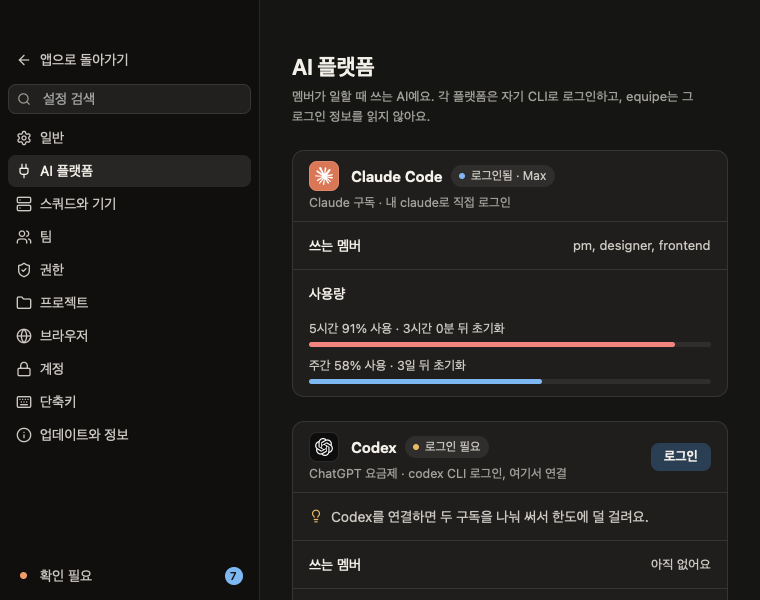
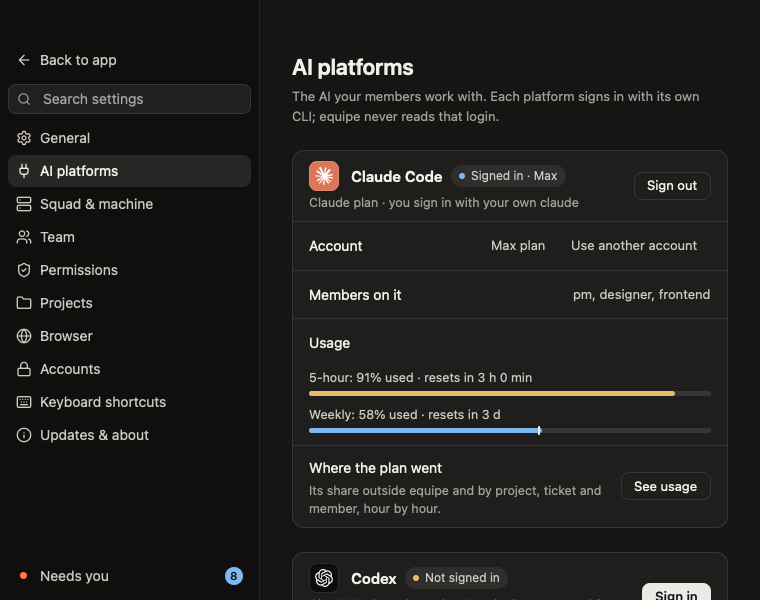
Claude Code card: sign out and use another account, like Codex

diff --git a/crates/desktop/src/views/engines.rs b/crates/desktop/src/views/engines.rs
@@ -121,7 +121,7 @@ fn card(shell: &Shell, at: usize, platform: &'static Platform, now: Instant, cx:
                 .on_click(cx.listener(move |this, _, _, cx| this.engine_install(engine, cx)))
                 .into_any_element(),
         ),
-        (Card::Idle, Some(EngineState::SignedIn), SignsIn::FromApp) => Some(
+        (Card::Idle, Some(EngineState::SignedIn), _) => Some(
             button(shell, at, 0, "engine-sign-out", Kind::Secondary, t!("engines.sign_out"))
                 .disabled(!connected)
                 .on_click(cx.listener(move |this, _, _, cx| {
@@ -147,19 +147,26 @@ fn card(shell: &Shell, at: usize, platform: &'static Platform, now: Instant, cx:
     let mut lines = vec![Line::new(platform.name, (platform.who)()).label_el(head).words(words.clone()).control_opt(action)];
 
     // Signed in from here: who as and on what plan, and the way to another account.
-    if card == Card::Idle && signed_in && platform.signs_in == SignsIn::FromApp {
+    if card == Card::Idle && signed_in {
         let who = status.and_then(|s| s.account.clone());
         let plan = status.and_then(|s| s.plan.clone()).map(|plan| engines::title_case(&plan));
+        let per_token = status.is_some_and(|s| s.per_token);
         let said = match (who, plan) {
             (Some(who), Some(plan)) => t!("engines.account_on", account = who, plan = plan),
             (Some(who), None) => who,
             (None, Some(plan)) => t!("engines.account_plan_only", plan = plan),
+            (None, None) if per_token => t!("engines.per_token").to_owned(),
             (None, None) => t!("engines.account_unknown").to_owned(),
         };
+        let tip = if platform.signs_in == SignsIn::FromApp { t!("engines.switch_account_tip") } else { t!("engines.switch_account_tip_claude") };
         let switch = button(shell, at, 1, "engine-switch-account", Kind::Ghost, t!("engines.switch_account"))
-            .tip(t!("engines.switch_account_tip"), None)
+            .tip(tip, None)
             .disabled(!connected)
-            .on_click(cx.listener(move |this, _, _, cx| this.engine_sign_in(engine, cx)));
+            .on_click(cx.listener(move |this, _, window, cx| match engines::platform(engine).signs_in {
+                SignsIn::FromApp => this.engine_sign_in(engine, cx),
+                // Claude Code's own sign-in: its page, and the code pasted back.
+                SignsIn::InTerminal { .. } => this.signin_start(engine, window, cx),
+            }));
         lines.push(
             Line::new(t!("engines.row_account"), "")
                 .words(format!("{words} account plan email switch"))
@@ -461,9 +468,11 @@ fn progress(shell: &Shell, at: usize, platform: &'static Platform, card: &Card, 
         Card::Elsewhere => Line::new(t!("engines.elsewhere"), "").label_el(waiting(t!("engines.elsewhere").to_owned())).control(cancel(cx)),
         // Claude Code's page, from a conversation's card: its code is pasted there.
         Card::Paste { url } => {
-            let open = url.clone();
-            let controls = h_flex().gap_2().items_center().child(button(shell, at, 3, "engine-open-page", Kind::Ghost, t!("engines.open_page")).icon(Icon::External).on_click(move |_, _, cx| cx.open_url(&open)));
-            Line::new(t!("signin.paste_settings"), "").label_el(waiting(t!("signin.paste_settings").to_owned())).control(controls.child(cancel(cx)))
+            let line = Line::new(t!("signin.paste_settings"), "").label_el(waiting(t!("signin.paste_settings").to_owned())).control(cancel(cx));
+            match shell.signin_code.clone() {
+                Some(code) => line.below(paste_box(shell, at, engine, &code, url, cx)),
+                None => line,
+            }
         }
         Card::Browser { url } => {
             let mut controls = h_flex().gap_2().items_center();
@@ -523,11 +532,45 @@ fn progress(shell: &Shell, at: usize, platform: &'static Platform, card: &Card, 
                 cx.notify();
             }));
             let out = button(shell, at, 2, "engine-sign-out-sure", Kind::Danger, t!("engines.sign_out")).on_click(cx.listener(move |this, _, _, cx| this.engine_sign_out(engine, cx)));
-            Line::new(t!("engines.confirm_sign_out", name = platform.name), t!("engines.confirm_sign_out_desc", host = host(shell), tool = platform.tool, name = platform.name)).warn(true).control(h_flex().gap_2().items_center().child(keep).child(out))
+            let mut desc = t!("engines.confirm_sign_out_desc", host = host(shell), tool = platform.tool, name = platform.name);
+            // Who is working on it now, so the person knows whose work this stops.
+            if let Some(members) = shell.engines.status(engine).and_then(|s| engines::members_line(s, &shell.model.squad)) {
+                desc = format!("{desc} {}", t!("engines.confirm_sign_out_members", members = members));
+            }
+            Line::new(t!("engines.confirm_sign_out", name = platform.name), desc).warn(true).control(h_flex().gap_2().items_center().child(keep).child(out))
         }
         Card::SigningOut => Line::new(t!("engines.signing_out"), "").label_el(waiting(t!("engines.signing_out").to_owned())),
     };
     Some(line)
+}
+
+/// Claude Code's page: open it, and the box its code is pasted into with Send.
+fn paste_box(shell: &Shell, at: usize, engine: Engine, code: &Entity<gpui_kit::component::input::InputState>, url: &str, cx: &mut Context<Shell>) -> AnyElement {
+    let p = shell.palette;
+    let open = url.to_owned();
+    h_flex()
+        .w_full()
+        .gap_2()
+        .items_center()
+        .child(
+            div()
+                .flex_1()
+                .min_w_0()
+                .h(px(CONTROL + 4.))
+                .px_3()
+                .flex()
+                .items_center()
+                .rounded(px(R_MD))
+                .border_1()
+                .border_color(p.hair)
+                .bg(p.code_bg)
+                .font_family(MONO)
+                .text_size(px(13.))
+                .child(Input::new(code).appearance(false).bordered(false)),
+        )
+        .child(button(shell, at, 3, "engine-open-page", Kind::Ghost, t!("engines.open_page")).icon(Icon::External).on_click(move |_, _, cx| cx.open_url(&open)))
+        .child(button(shell, at, 2, "engine-paste-send", Kind::Primary, t!("signin.paste_send")).on_click(cx.listener(move |this, _, window, cx| this.signin_paste(engine, window, cx))))
+        .into_any_element()
 }
 
 /// Usage: the plan's windows where they are known; room for the rest.

diff --git a/crates/desktop/src/snapshot.rs b/crates/desktop/src/snapshot.rs
@@ -9,7 +9,7 @@
 //! `menu:<inbox|working|all|view0…>` (a sidebar item) · `cmenu:<attach|recent|to|model|effort|mode|context>` (a composer menu) · `bkey:<key>` (a work
 //! screen's key; `shift-a`, `cmd-a`, `alt-v` with modifiers) · `pick:<n>` (a
 //! ticket; `ppick:<n>`, peeking) · `find:<words>` · `note:<text>` (in the open words box) · `submit`
-//! (its main button) · `size:<w>x<h>` (the window) · `hover:<x>,<y>` / `click:<x>,<y>` (the pointer, in the screen's points — through the zoom, as the Mac sends it) · `zoom:<pct|in|out|actual>` (the window's size, as ⌘+ ⌘- ⌘0) · `theme:<light|dark>` · `sidebar` (hide/show) · `popup:account` · `popup:subagents:<member>` · `subagent:<member>[,<n>]` (its first — or nth, from 0 — subagent's row, clicked) · `settings[:<category>]` (settings, at general · engines · squad · team · permissions · projects · browser · keys · about) · `words:<on|off|ask>` ("All by words" for the squad, or asked about) · `wlog` (the log of where words went wrong) · `wundo` (Undo, Cancel or Leave on what waits in words) · `eng:<signin|cancel|signout|sure|keep|tab>:<codex|claude>` (an AI platform's card) · `signin:<go|move|check|cancel|carry|far|paste:<code>|type:<code>>` (a lost sign-in's card in the conversation) · `ssearch:<words>` (its search) · `spop:<language|squad|subagents|provider>` (a pop-up) · `padd:<preset>` · `purl:<url>` · `pconnect` (a model provider's form: opened, its address, Connect) · `open:<n>` (a ticket's sidebar row) · `folds` · `elsewhere[:<n>]` (open or close the nth fold of other projects' talk) · `chooser` (the machine chooser) · `connect:<host>` · `pass:<text>` (answer ssh's
+//! (its main button) · `size:<w>x<h>` (the window) · `hover:<x>,<y>` / `click:<x>,<y>` (the pointer, in the screen's points — through the zoom, as the Mac sends it) · `zoom:<pct|in|out|actual>` (the window's size, as ⌘+ ⌘- ⌘0) · `theme:<light|dark>` · `sidebar` (hide/show) · `popup:account` · `popup:subagents:<member>` · `subagent:<member>[,<n>]` (its first — or nth, from 0 — subagent's row, clicked) · `settings[:<category>]` (settings, at general · engines · squad · team · permissions · projects · browser · keys · about) · `words:<on|off|ask>` ("All by words" for the squad, or asked about) · `wlog` (the log of where words went wrong) · `wundo` (Undo, Cancel or Leave on what waits in words) · `eng:<signin|switch|cancel|signout|sure|keep|tab>:<codex|claude>` (an AI platform's card) · `signin:<go|move|check|cancel|carry|far|paste:<code>|type:<code>>` (a lost sign-in's card in the conversation) · `ssearch:<words>` (its search) · `spop:<language|squad|subagents|provider>` (a pop-up) · `padd:<preset>` · `purl:<url>` · `pconnect` (a model provider's form: opened, its address, Connect) · `open:<n>` (a ticket's sidebar row) · `folds` · `elsewhere[:<n>]` (open or close the nth fold of other projects' talk) · `chooser` (the machine chooser) · `connect:<host>` · `pass:<text>` (answer ssh's
 //! password box) · `trust` / `decline` (answer ssh's yes/no) · `retry` · `setup:<nogit|gitasked|missing|confirm|installing|signedout|waiting|ready|failed|squad|creating|error>` (the first run's steps) · `attach:<file>[,<file>…]` · `ckey:<key>` (a key in the composer) · `light:<n>` (show attachment n big) · `drag:<path>[,…]` / `undrag` (the drop frame, as if dragged) ·
 //! `sdrag:<x1>,<y1>,<x2>,<y2>` (a selection dragged out) · `peekw:<px>` (the peek held that wide) · `quote:<open|reply|copy|type:<words>|write:<words>|add|cancel|edit:<n>|remove:<n>|peek:<n>|card:<quote>|<words>|send|close|jump>` (asking about — replying to — the words selected; a card's "Reply", ✕, the pointer on it; a card made at once) ·
 //! `sidechat:<start|on:<words>|type:<words>|send|close|bring|jump|reopen>` (a side chat: about the words selected, or about `words` of the conversation as if selected; typed in, sent, closed, its last answer brought to the composer, its passage clicked, opened again from its mark) ·
@@ -1043,13 +1043,15 @@ pub fn run(mut handle: AnyWindowHandle, mut shell: Entity<Shell>, cx: &mut App) 
                     }
                     cx.notify();
                 }),
-                // An AI platform's card in settings: `eng:<signin|cancel|signout|sure|keep|tab>:<codex|claude>`
+                // An AI platform's card in settings: `eng:<signin|switch|cancel|signout|sure|keep|tab>:<codex|claude>`
                 // (Sign in, Cancel, Sign out and its Sign out or Keep; `tab` moves the keys' focus to its first button).
                 "eng" => shell.update(cx, |shell, cx| {
                     let (act, which) = arg.split_once(':').unwrap_or((arg.as_str(), "codex"));
                     let engine = if which == "claude" { equipe_core::protocol::Engine::Claude } else { equipe_core::protocol::Engine::Codex };
                     match act {
                         "signin" => shell.engine_sign_in(engine, cx),
+                        // "Use another account": Claude Code's own sign-in, its page and a box for the code.
+                        "switch" => shell.signin_start(engine, window, cx),
                         "cancel" => shell.engine_cancel(engine, cx),
                         "signout" => shell.engines.ask_sign_out(engine),
                         "sure" => shell.engine_sign_out(engine, cx),

diff --git a/crates/desktop/examples/fake_daemon/engines.rs b/crates/desktop/examples/fake_daemon/engines.rs
@@ -25,6 +25,12 @@ fn mode() -> String {
 }
 
 /// Codex's state, as signing in and out moves it.
+/// Claude Code signed out from its card, until it signs in again.
+fn claude_out() -> &'static std::sync::atomic::AtomicBool {
+    static OUT: std::sync::atomic::AtomicBool = std::sync::atomic::AtomicBool::new(false);
+    &OUT
+}
+
 fn codex() -> &'static std::sync::Mutex<EngineState> {
     static CODEX: std::sync::OnceLock<std::sync::Mutex<EngineState>> = std::sync::OnceLock::new();
     CODEX.get_or_init(|| {
@@ -92,6 +98,9 @@ fn statuses() -> Vec<EngineStatus> {
             claude.members = vec![member("pm"), member("designer"), member("frontend")];
         }
     }
+    if claude_out().load(std::sync::atomic::Ordering::Relaxed) {
+        claude = EngineStatus::new(Engine::Claude, EngineState::SignedOut);
+    }
     let mut codex = EngineStatus::new(Engine::Codex, *self::codex().lock().unwrap());
     if codex.state == EngineState::SignedIn {
         codex.plan = Some("plus".into());
@@ -113,7 +122,37 @@ pub fn on_command(command: &Command, events: &broadcast::Sender<Event>) -> bool 
                 let _ = events.send(Event::Engines { engines: statuses() });
             });
         }
-        Command::SignIn { engine: Engine::Claude, .. } => tell(Engine::Claude, SignInStep::Failed { why: SignInFailure::Unsupported, detail: String::new() }),
+        // Claude Code's own: its page, then the code pasted back (`failed`: refused).
+        Command::SignIn { engine: Engine::Claude, .. } => {
+            let events = events.clone();
+            tokio::spawn(async move {
+                let tell = |step| drop(events.send(Event::SignIn { engine: Engine::Claude, step }));
+                tell(SignInStep::Browser { url: None });
+                tokio::time::sleep(Duration::from_millis(400)).await;
+                tell(SignInStep::Paste { url: "https://claude.com/cai/oauth/authorize?code=true&client_id=fake".into() });
+            });
+        }
+        Command::SignInCode { engine: Engine::Claude, .. } => {
+            let events = events.clone();
+            tokio::spawn(async move {
+                tokio::time::sleep(Duration::from_millis(500)).await;
+                if mode() == "failed" {
+                    let _ = events.send(Event::SignIn { engine: Engine::Claude, step: SignInStep::Failed { why: SignInFailure::Failed, detail: "Login failed: Request failed with status code 400".into() } });
+                    return;
+                }
+                claude_out().store(false, std::sync::atomic::Ordering::Relaxed);
+                let _ = events.send(Event::SignIn { engine: Engine::Claude, step: SignInStep::Done });
+                let _ = events.send(Event::Engines { engines: statuses() });
+            });
+        }
+        Command::SignOut { engine: Engine::Claude } => {
+            let events = events.clone();
+            tokio::spawn(async move {
+                tokio::time::sleep(Duration::from_millis(600)).await;
+                claude_out().store(true, std::sync::atomic::Ordering::Relaxed);
+                let _ = events.send(Event::Engines { engines: statuses() });
+            });
+        }
         Command::SignIn { engine, device } => {
             let (engine, device) = (*engine, *device || std::env::var("FAKE_ENGINES_CODE").is_ok_and(|v| v == "1"));
             let said = events.clone();

diff --git a/crates/desktop/src/engines.rs b/crates/desktop/src/engines.rs
@@ -329,7 +329,10 @@ impl Engines {
 
     /// "Sign out" asks first; "Keep" puts it back.
     pub fn ask_sign_out(&mut self, engine: Engine) {
-        self.set(engine, Card::ConfirmSignOut);
+        // Not over a sign-in on its way, a failure still to read, or a sign-out under way.
+        if self.card(engine) == &Card::Idle {
+            self.set(engine, Card::ConfirmSignOut);
+        }
     }
 
     pub fn keep(&mut self, engine: Engine) {
@@ -701,6 +704,50 @@ mod tests {
         e.on_event(&Event::Engines { engines: vec![status(Engine::Codex, EngineState::SignedOut)] });
         assert_eq!(e.card(Engine::Codex), &Card::Idle);
         assert!(e.sign_in(Engine::Claude, false, Instant::now()).is_empty(), "Claude Code signs in in a terminal");
+    }
+
+    #[test]
+    fn claude_code_signs_out_and_back_in_on_its_card() {
+        let mut e = Engines::default();
+        let now = Instant::now();
+        let claude = Engine::Claude;
+        // Asked once; a second press while asking, or over a sign-in, changes nothing.
+        e.ask_sign_out(claude);
+        e.ask_sign_out(claude);
+        assert_eq!(e.card(claude), &Card::ConfirmSignOut);
+        assert_eq!(e.sign_out(claude), vec![Command::SignOut { engine: claude }]);
+        assert!(e.sign_out(claude).is_empty(), "a double click sends nothing twice");
+        e.ask_sign_out(claude);
+        assert_eq!(e.card(claude), &Card::SigningOut, "not asked again while signing out");
+        e.on_event(&Event::Engines { engines: vec![status(claude, EngineState::SignedOut)] });
+        assert_eq!(e.card(claude), &Card::Idle);
+        // Back in at the same place: its page, the code pasted, then done.
+        assert_eq!(e.sign_in_again(claude, false, now), vec![Command::SignIn { engine: claude, device: false }]);
+        e.ask_sign_out(claude);
+        assert!(matches!(e.card(claude), Card::Starting { .. }), "no sign-out over a sign-in on its way");
+        assert!(e.sign_in_again(claude, false, now).is_empty(), "a second click starts nothing");
+        // Cancel puts the card back and tells the daemon.
+        assert_eq!(e.cancel(claude), vec![Command::SignInCancel { engine: claude }]);
+        assert_eq!(e.card(claude), &Card::Idle);
+        // A sign-in that fails is read, then dismissed.
+        e.sign_in_again(claude, true, now);
+        e.on_event(&Event::SignIn { engine: claude, step: SignInStep::Failed { why: SignInFailure::Unsupported, detail: String::new() } });
+        assert!(matches!(e.card(claude), Card::Failed { .. }));
+        e.ask_sign_out(claude);
+        assert!(matches!(e.card(claude), Card::Failed { .. }), "the failure stays until read");
+        e.keep(claude);
+        assert_eq!(e.card(claude), &Card::Idle);
+        // Another Mac's daemon losing the window is a failure to read, not a sign-out.
+        e.ask_sign_out(claude);
+        e.disconnected();
+        assert!(!matches!(e.card(claude), Card::SigningOut));
+    }
+
+    #[test]
+    fn the_sign_out_question_names_who_is_working() {
+        let mut working = status(Engine::Claude, EngineState::SignedIn);
+        working.members = vec![MemberRef { squad: "acme".into(), member: "backend".into() }, MemberRef { squad: "other".into(), member: "pm".into() }];
+        assert_eq!(members_line(&working, "acme").as_deref(), Some("backend, other/pm"));
     }
 
     #[test]

diff --git a/design/flows/shoot-desktop.py b/design/flows/shoot-desktop.py
@@ -108,6 +108,14 @@ state("settings/general/default", "settings:general")
 state("settings/general/long", "settings:general", lang="de")
 state("settings/engines/default", "settings:engines", {"FAKE_USAGE": "healthy"})
 state("settings/engines/error", "settings:engines", {"FAKE_USAGE": "both_low"})
+# Claude Code's card: signed in (above), the sign-out question, signed out, another account's sign-in
+# under way, refused, done; German (the longest) stands in for large text — the app has no text-size setting.
+state("settings/engines/confirm", "settings:engines;eng:signout:claude", {"FAKE_USAGE": "healthy"}, label="Claude Code: sign-out asked first, naming who is working")
+state("settings/engines/signedout", "settings:engines;eng:signout:claude;eng:sure:claude;wait:1500", {"FAKE_USAGE": "healthy"}, label="Claude Code signed out")
+state("settings/engines/waiting", "settings:engines;eng:switch:claude;wait:900", {"FAKE_USAGE": "healthy"}, label="Claude Code: another account's sign-in under way")
+state("settings/engines/failed", "settings:engines;eng:switch:claude;wait:900;signin:paste:bad-code;wait:1200", {"FAKE_USAGE": "healthy", "FAKE_ENGINES": "failed"}, label="Claude Code: another account's sign-in refused", kind="error")
+state("settings/engines/success", "settings:engines;eng:signout:claude;eng:sure:claude;wait:1500;eng:switch:claude;wait:900;signin:paste:abc#def;wait:1500", {"FAKE_USAGE": "healthy"}, label="Claude Code signed in again", kind="success")
+state("settings/engines/long", "settings:engines;eng:signout:claude", {"FAKE_USAGE": "healthy"}, lang="de")
 state("settings/squad/default", "settings:squad")
 state("settings/team/default", "settings:team")
 state("settings/team/empty", "settings:team", {"FAKE_SIGNALS": "0"})

diff --git a/crates/core/src/runtime.rs b/crates/core/src/runtime.rs
@@ -2381,17 +2381,19 @@ impl Runtime {
         self.codex_models = None;
     }
 
-    /// Sign `engine` out with its own tool. Claude Code's login is the
-    /// person's: equipe never touches it.
+    /// Sign `engine` out with its own tool, when the person asks on its card.
     fn sign_out(&mut self, engine: Engine) {
-        if engine != Engine::Codex {
-            return;
+        if engine == Engine::Codex {
+            self.forget_codex_plan();
         }
-        self.forget_codex_plan();
         let (claude, codex, store, internal) = (self.config.claude_binary.clone(), self.codex_binary.clone(), self.config.store.clone(), self.internal.clone());
         tokio::spawn(async move {
-            if let Err(why) = crate::engines::codex_logout(&codex).await {
-                crate::daemon_log!("equipe: `codex logout` failed: {why}");
+            let out = match engine {
+                Engine::Codex => crate::engines::codex_logout(&codex).await.map_err(|why| ("codex logout", why)),
+                _ => crate::engines::claude_logout(&claude).await.map_err(|why| ("claude auth logout", why)),
+            };
+            if let Err((tool, why)) = out {
+                crate::daemon_log!("equipe: `{tool}` failed: {why}");
             }
             let _ = internal.send(Internal::Engines(crate::engines::statuses(&claude, &codex, &store).await));
         });

diff --git a/crates/core/src/engines.rs b/crates/core/src/engines.rs
@@ -331,6 +331,17 @@ pub async fn codex_logout(binary: &str) -> Result<(), String> {
     }
 }
 
+/// `claude auth logout`: Claude Code forgets its own login.
+pub async fn claude_logout(binary: &str) -> Result<(), String> {
+    let run = equipe_providers::tools_path::command(binary).args(["auth", "logout"]).stdin(Stdio::null()).kill_on_drop(true).output();
+    match tokio::time::timeout(ASK_WAIT, run).await {
+        Err(_) => Err(format!("`{binary} auth logout` didn't answer in {}s", ASK_WAIT.as_secs())),
+        Ok(Err(err)) => Err(err.to_string()),
+        Ok(Ok(out)) if out.status.success() => Ok(()),
+        Ok(Ok(out)) => Err(short(plain(&String::from_utf8_lossy(&out.stderr)).trim())),
+    }
+}
+
 #[cfg(test)]
 mod tests {
     use super::*;
@@ -476,5 +487,8 @@ mod tests {
         assert!(matches!(none, SignInStep::Failed { why: SignInFailure::NotInstalled, .. }));
         let bye = script(&dir, "bye", "[ \"$1\" = logout ] && echo 'Successfully logged out' >&2");
         assert_eq!(codex_logout(&bye).await, Ok(()));
+        let out = script(&dir, "claude-out", "[ \"$1 $2\" = 'auth logout' ]");
+        assert_eq!(claude_logout(&out).await, Ok(()));
+        assert!(claude_logout(dir.join("nope").to_str().unwrap()).await.is_err());
     }
 }
